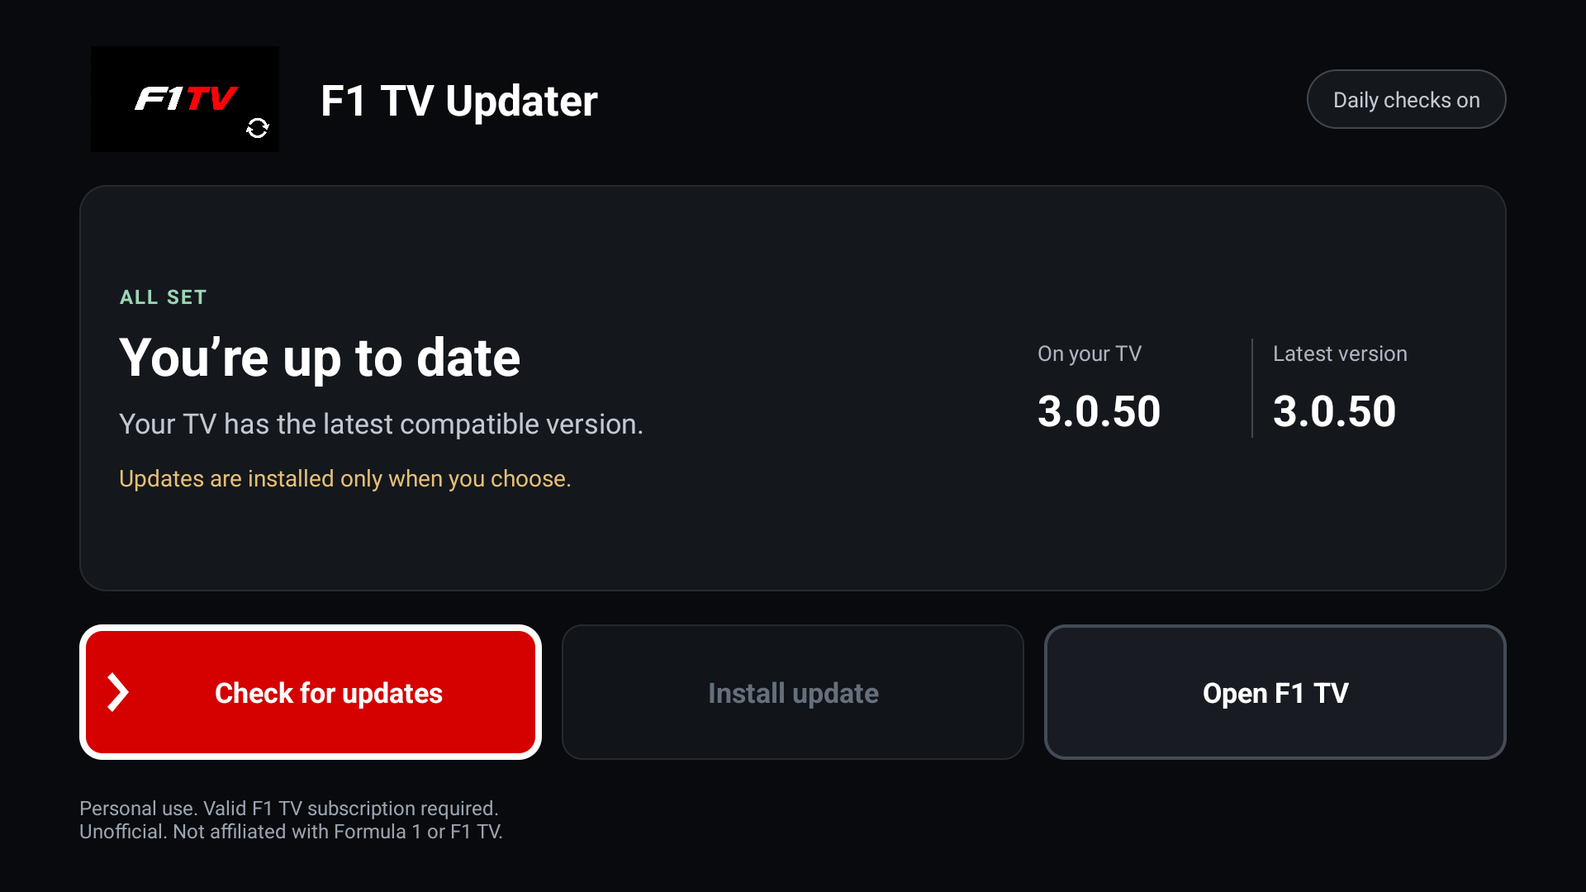
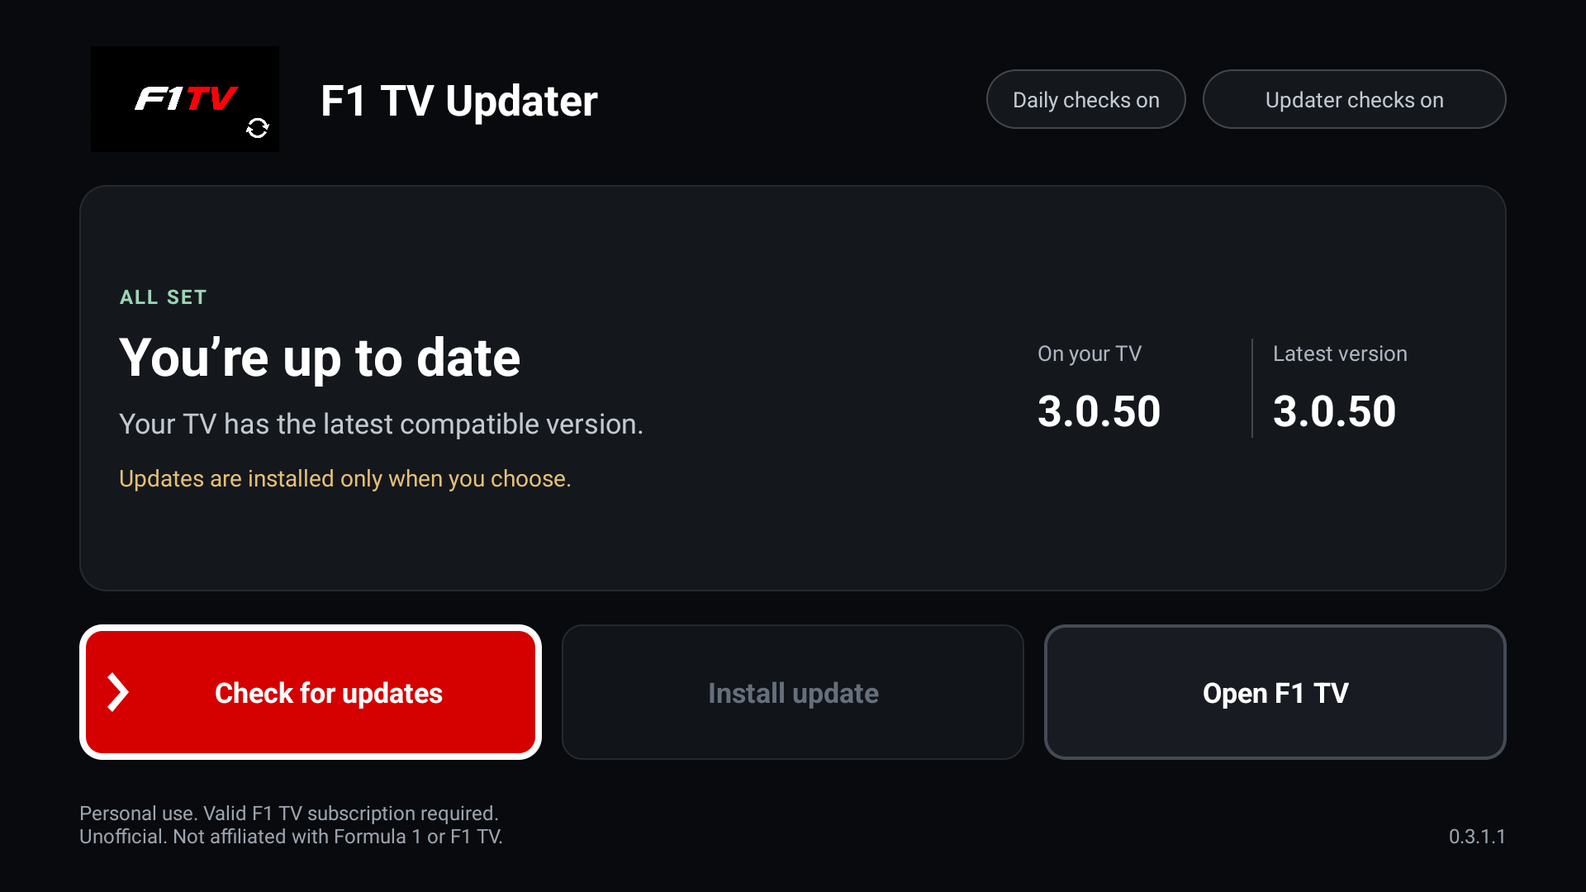
Show updater version and add automatic updater-check control (0.3.1.1)

diff --git a/app/src/main/java/com/independent/f1tvupdater/MainActivity.java b/app/src/main/java/com/independent/f1tvupdater/MainActivity.java
@@ -34,6 +34,7 @@ public final class MainActivity extends Activity {
     private Button install;
     private Button check;
     private Button open;
+    private Button updaterChecks;
     private boolean busy;
     private boolean setupPromptOpen;
     private boolean selfPromptOpen;
@@ -69,6 +70,22 @@ public final class MainActivity extends Activity {
         daily.setPadding(dp(16), dp(9), dp(16), dp(9));
         daily.setBackground(panel(0xff14181d, 24, 0xff41474f));
         header.addView(daily);
+        updaterChecks = button("", v -> {
+            boolean enabled = !SelfUpdater.automaticChecksEnabled(this);
+            SelfUpdater.setAutomaticChecksEnabled(this, enabled);
+            render();
+            Toast.makeText(this, enabled ? "Automatic updater checks on."
+                    : "Automatic updater checks off. Manual checks still work.", Toast.LENGTH_LONG).show();
+        });
+        updaterChecks.setTextSize(13);
+        updaterChecks.setTypeface(Typeface.DEFAULT, Typeface.NORMAL);
+        updaterChecks.setMaxLines(1);
+        updaterChecks.setPadding(dp(12), dp(6), dp(12), dp(6));
+        updaterChecks.setBackgroundResource(R.drawable.tv_pill);
+        updaterChecks.setTextColor(getColorStateList(R.color.tv_pill_text));
+        LinearLayout.LayoutParams updaterChecksSize = new LinearLayout.LayoutParams(dp(184), dp(36));
+        updaterChecksSize.leftMargin = dp(10);
+        header.addView(updaterChecks, updaterChecksSize);
         LinearLayout.LayoutParams headerSize = new LinearLayout.LayoutParams(-1, dp(compact ? 56 : 64));
         headerSize.bottomMargin = dp(compact ? 14 : 20);
         root.addView(header, headerSize);
@@ -135,15 +152,24 @@ public final class MainActivity extends Activity {
         check.setNextFocusLeftId(check.getId());
         open.setNextFocusRightId(open.getId());
         for (Button action : new Button[] {check, install, open}) {
-            action.setNextFocusUpId(action.getId());
             action.setNextFocusDownId(action.getId());
         }
+        updaterChecks.setNextFocusLeftId(updaterChecks.getId());
+        updaterChecks.setNextFocusRightId(updaterChecks.getId());
+        updaterChecks.setNextFocusUpId(updaterChecks.getId());
+        updaterChecks.setNextFocusDownId(check.getId());
 
         LinearLayout footer = new LinearLayout(this);
-        footer.setGravity(Gravity.CENTER_VERTICAL);
+        footer.setBaselineAligned(false);
+        footer.setGravity(Gravity.BOTTOM);
         TextView disclaimer = text(getString(R.string.disclaimer), 12, 0xff9ba4b0);
         disclaimer.setMaxLines(2);
-        footer.addView(disclaimer, new LinearLayout.LayoutParams(-1, -2));
+        footer.addView(disclaimer, new LinearLayout.LayoutParams(0, -2, 1));
+        TextView updaterVersion = text(SelfUpdater.installedName(this), 12, 0xff9ba4b0);
+        updaterVersion.setGravity(Gravity.END);
+        LinearLayout.LayoutParams updaterVersionSize = new LinearLayout.LayoutParams(-2, -2);
+        updaterVersionSize.leftMargin = dp(24);
+        footer.addView(updaterVersion, updaterVersionSize);
         LinearLayout.LayoutParams footerSize = new LinearLayout.LayoutParams(-1, dp(36));
         footerSize.topMargin = dp(compact ? 12 : 18);
         root.addView(footer, footerSize);
@@ -156,7 +182,7 @@ public final class MainActivity extends Activity {
         if (Updater.installedVersion(this) >= 0 &&
                 !Updater.prefs(this).getBoolean("first_check_started", false)) {
             Updater.prefs(this).edit().putBoolean("first_check_started", true).apply();
-            checkNow();
+            runCheck(false, false);
         }
     }
 
@@ -300,6 +326,16 @@ public final class MainActivity extends Activity {
                 !state.equals("Waiting for Android installation confirmation") &&
                 !state.equals("Awaiting installation confirmation"));
         open.setEnabled(Updater.installedVersion(this) >= 0);
+        boolean publicEdition = SelfUpdater.supported(this);
+        boolean automaticChecks = SelfUpdater.automaticChecksEnabled(this);
+        updaterChecks.setText(publicEdition ? "Updater checks " + (automaticChecks ? "on" : "off")
+                : "Updater: local");
+        updaterChecks.setContentDescription(publicEdition
+                ? "Automatic updater checks " + (automaticChecks ? "on. Select to turn off." : "off. Select to turn on.")
+                : "Personal updater updates are installed locally.");
+        updaterChecks.setEnabled(publicEdition && !busy && !selfPending);
+        for (Button action : new Button[] {check, install, open})
+            action.setNextFocusUpId(updaterChecks.isEnabled() ? updaterChecks.getId() : action.getId());
         check.setNextFocusRightId(install.isEnabled() ? install.getId()
                 : open.isEnabled() ? open.getId() : check.getId());
         install.setNextFocusRightId(open.isEnabled() ? open.getId() : install.getId());
@@ -307,7 +343,7 @@ public final class MainActivity extends Activity {
     }
     private void checkNow() {
         if (busy) return;
-        runCheck(false);
+        runCheck(false, true);
     }
 
     private void offerSetup(boolean requested) {
@@ -322,7 +358,7 @@ public final class MainActivity extends Activity {
                 .setTitle(R.string.setup_title)
                 .setMessage(R.string.setup_message)
                 .setNegativeButton("Not now", null)
-                .setPositiveButton("Download", (dialog, which) -> runCheck(true))
+                .setPositiveButton("Download", (dialog, which) -> runCheck(true, false))
                 .setOnDismissListener(dialog -> { setupPromptOpen = false; render(); })
                 .create();
         setup.setOnShowListener(dialog -> {
@@ -337,14 +373,14 @@ public final class MainActivity extends Activity {
         setup.show();
     }
 
-    private void runCheck(boolean initialSetup) {
+    private void runCheck(boolean initialSetup, boolean requested) {
         if (busy) return;
         busy = true;
         render();
         show("Checking for updates…");
         io.execute(() -> {
             boolean selfCheckFailed = false;
-            try { SelfUpdater.check(getApplicationContext(), true); }
+            try { SelfUpdater.check(getApplicationContext(), requested); }
             catch (Exception e) { SelfUpdater.recordError(getApplicationContext(), e); selfCheckFailed = true; }
             final boolean updaterCheckFailed = selfCheckFailed;
             try {
@@ -358,9 +394,9 @@ public final class MainActivity extends Activity {
                     busy = false;
                     if (!isDestroyed()) {
                         render();
-                        boolean offered = offerSelfUpdate(true);
-                        if (!offered && !initialSetup) offerSetup(true);
-                        if (visible && updaterCheckFailed && !offered)
+                        boolean offered = offerSelfUpdate(requested);
+                        if (!offered && !initialSetup) offerSetup(requested);
+                        if (requested && visible && updaterCheckFailed && !offered)
                             Toast.makeText(this, "The updater check couldn’t finish. Try again later.", Toast.LENGTH_LONG).show();
                     }
                 });

diff --git a/app/src/main/java/com/independent/f1tvupdater/SelfUpdater.java b/app/src/main/java/com/independent/f1tvupdater/SelfUpdater.java
@@ -29,6 +29,12 @@ public final class SelfUpdater {
         return c.getApplicationContext().getSharedPreferences("self_update_state_v1", Context.MODE_PRIVATE);
     }
     static boolean supported(Context c) { return SelfUpdatePolicy.COMMUNITY.equals(c.getPackageName()); }
+    static boolean automaticChecksEnabled(Context c) {
+        return prefs(c).getBoolean("automatic_checks", true);
+    }
+    static void setAutomaticChecksEnabled(Context c, boolean enabled) {
+        prefs(c).edit().putBoolean("automatic_checks", enabled).remove("last_attempt").apply();
+    }
     private static PackageInfo own(Context c) throws Exception {
         return c.getPackageManager().getPackageInfo(c.getPackageName(), Updater.signatureFlags());
     }
@@ -45,8 +51,8 @@ public final class SelfUpdater {
     static boolean pending(Context c) { return prefs(c).getInt("session_id", -1) >= 0; }
     static void dismiss(Context c) { prefs(c).edit().putString("dismissed_key", offerKey(c)).apply(); }
     static boolean shouldOffer(Context c, boolean requested) {
-        return available(c) && !pending(c) && (requested ||
-                !offerKey(c).equals(prefs(c).getString("dismissed_key", "")));
+        return available(c) && !pending(c) && (requested || (automaticChecksEnabled(c) &&
+                !offerKey(c).equals(prefs(c).getString("dismissed_key", ""))));
     }
     static String state(Context c) { return prefs(c).getString("state", "Preparing updater update"); }
     static void setState(Context c, String state) { prefs(c).edit().putString("state", state).apply(); }
@@ -104,6 +110,7 @@ public final class SelfUpdater {
         if (!supported(c)) return; // Personal builds remain local, with no published matching APK.
         synchronized (LOCK) {
             reconcile(c);
+            if (!requested && !automaticChecksEnabled(c)) return;
             if (pending(c)) return;
             long now = System.currentTimeMillis(), last = prefs(c).getLong("last_attempt", 0);
             if (!requested && now >= last && now - last < 5 * 60_000L) return;

diff --git a/app/src/test/java/com/independent/f1tvupdater/SelfUpdatePolicyTest.java b/app/src/test/java/com/independent/f1tvupdater/SelfUpdatePolicyTest.java
@@ -12,12 +12,16 @@ public class SelfUpdatePolicyTest {
     @Test public void onlyThePublicEditionHasAPublishedUpdateAsset() {
         assertEquals(NAME, SelfUpdatePolicy.assetName(PACKAGE, "v0.3.1"));
         assertEquals(NAME, SelfUpdatePolicy.assetName(PACKAGE, "0.3.1"));
+        assertEquals("f1tv-patch-updater-0.3.1.1.apk", SelfUpdatePolicy.assetName(PACKAGE, "v0.3.1.1"));
         assertNull(SelfUpdatePolicy.assetName("com.independent.f1tvupdater", "v0.3.1"));
         assertNull(SelfUpdatePolicy.assetName(PACKAGE, "v0.3.1-beta"));
     }
     @Test public void comparesVersionsNumericallyAndSkipsCurrentOrOlderReleases() {
         assertTrue(SelfUpdatePolicy.newerRelease("0.3.9", "v0.3.10"));
         assertTrue(SelfUpdatePolicy.newerRelease("0.3.10", "v0.4.0"));
+        assertTrue(SelfUpdatePolicy.newerRelease("0.3.1", "v0.3.1.1"));
+        assertTrue(SelfUpdatePolicy.newerRelease("0.3.1.1", "v0.3.1.2"));
+        assertFalse(SelfUpdatePolicy.newerRelease("0.3.1.1", "v0.3.1"));
         assertFalse(SelfUpdatePolicy.newerRelease("0.3.1", "v0.3.1"));
         assertFalse(SelfUpdatePolicy.newerRelease("0.3.1", "v0.3.0"));
         assertFalse(SelfUpdatePolicy.newerRelease("0.3", "v0.3.0"));

diff --git a/app/src/main/java/com/independent/f1tvupdater/UpdateJobService.java b/app/src/main/java/com/independent/f1tvupdater/UpdateJobService.java
@@ -7,7 +7,7 @@ public final class UpdateJobService extends JobService {
     private Thread thread;
     @Override public boolean onStartJob(JobParameters params) {
         thread = new Thread(() -> {
-            try { SelfUpdater.check(getApplicationContext(), true); }
+            try { SelfUpdater.check(getApplicationContext(), false); }
             catch (Exception e) { SelfUpdater.recordError(getApplicationContext(), e); }
             try { Updater.checkAndDownload(getApplicationContext(), message -> {}); }
             catch (Exception e) { Updater.recordError(getApplicationContext(), e); }

diff --git a/AGENTS.md b/AGENTS.md
@@ -1,13 +1,13 @@
 # F1TV Patch Updater
 
-- `SelfUpdater` owns public-edition self-updates with separate preferences/files/session callbacks. `SelfUpdatePolicy` is host-testable. Check metadata on opening/manual/daily jobs; only Update now downloads and installs. Require the exact own package, matching installed signing certificate, higher code, matching release name and GitHub SHA-256. Never uninstall the updater or switch editions. Recover cleanup through MY_PACKAGE_REPLACED and startup. Personal builds remain local with no public self-update feed.
+- `SelfUpdater` owns public-edition self-updates with separate preferences/files/session callbacks. `SelfUpdatePolicy` is host-testable. Check metadata on opening/manual/daily jobs; only Update now downloads and installs. Require the exact own package, matching installed signing certificate, higher code, matching release name and GitHub SHA-256. Never uninstall the updater or switch editions. Recover cleanup through MY_PACKAGE_REPLACED and startup. The persisted automatic_checks setting gates startup/daily checks and automatic offers; explicit manual checks bypass it. Personal builds remain local with no public self-update feed.
 - Native Android TV app in `app/src/main/java/com/independent/f1tvupdater`; no third-party runtime dependencies.
 - `Updater` owns releases, bounded APKM extraction, split selection, pinned candidate metadata and PackageInstaller sessions. `UpdatePolicy` and `ReleaseCheckPolicy` contain host-testable decisions; `UpdateFiles` owns narrowly scoped staging cleanup. `MainActivity` owns confirmation and Android uninstall requests.
 - Never uninstall F1 TV from a background job. Same-key updates preserve data; unrelated keys require the trusted upstream SHA-256, revalidated candidate, explicit data-loss/sign-in warning and Android confirmation. Replacement recovery requires a pinned, user-initiated replacement.
 - Check full readable version/build metadata before downloading; uncertain metadata falls back to APK verification. Cache non-newer results by release asset and installed-package identity; invalidate replaced assets. Keep numeric APK version checks authoritative.
 - Run resume/startup cleanup off the UI thread under the same operation lock. Delete only updater-owned staging/extraction names, never follow symlinks, preserve valid pending/recovery candidates and active/sealed installer sessions, and make successful-install recovery idempotent.
 - Display readable versions; compare numeric version codes. Keep candidates through cancellation/failure. Never permit downgrades. First-time downloads require the activity's explicit Download action and a GitHub SHA-256; pin first-install approval to that verified candidate. Background checks cannot download for an empty TV. Revalidate saved candidates before installation.
-- Keep one TV screen, three horizontal actions and the red/white/chevron focus selector. Skip disabled actions; up/down stays in the row. Offer setup automatically once when F1 TV and a saved candidate are absent; Check for updates can offer it again. Keep the personal-use/subscription and non-affiliation footer visible and credit Alexvbp in public documentation.
+- Keep one TV screen, three horizontal actions and the red/white/chevron focus selector. Skip disabled actions; Up reaches the public updater-check pill, Down returns to the main actions, and the personal local-only pill is not focusable. Offer setup automatically once when F1 TV and a saved candidate are absent; Check for updates can offer it again. Show the installed updater version at bottom right in the disclaimer style. Keep the personal-use/subscription and non-affiliation footer visible and credit Alexvbp in public documentation.
 - `community` has application ID suffix `.community` and uses the main branding resource. `personal` preserves the original app identity and uses an ignored local overlay at `app/src/personal/res/drawable-nodpi/tv_banner.png`. Do not publish that private overlay or the personal APK.
 - JDK 17, Gradle 8.9, Android API 35. CI: `gradle --no-daemon assembleCommunityDebug testCommunityDebugUnitTest lintCommunityDebug`. Personal local check: `assemblePersonalDebug lintPersonalDebug`.
 - Public release: `assembleCommunityRelease lintCommunityRelease`, with `UPDATER_KEYSTORE_FILE`, `UPDATER_KEYSTORE_PASSWORD`, `UPDATER_KEY_ALIAS`, `UPDATER_KEY_PASSWORD` supplied privately. Signing material is retained locally, not in Git. Never fall back to a temporary debug key for a public release. CI checks do not publish releases.

diff --git a/README.md b/README.md
@@ -39,16 +39,16 @@ No more moving every new update from your computer to your TV. The updater watch
 
 The updater installs the upstream bundle directly. **No AntiSplit-M or separate split installer is needed.** After setup, future patch checks and downloads happen on the TV; you choose when to install.
 
-**Already using public 0.3.0 or earlier?** Install 0.3.1 once using the guide. After that, newer public updater releases are detected on the TV: choose **Update now** and approve Android’s prompt. **Older personal/prototype builds** have a separate identity and install alongside the public edition; private personal builds continue to be updated locally.
+**Already using public 0.3.0 or earlier?** Install the latest release once using the guide. After that, newer public updater releases are detected on the TV: choose **Update now** and approve Android’s prompt. **Older personal/prototype builds** have a separate identity and install alongside the public edition; private personal builds continue to be updated locally.
 
 ## Screenshots
 
 Actual captures of the public edition running on Android TV.
 
-| Ready at a glance | Easy to navigate |
+| Ready at a glance | Updater checks you control |
 | :---: | :---: |
-| ![Readable installed and latest versions](docs/screenshots/overview.png) | ![High-contrast remote selection](docs/screenshots/remote-focus.png) |
-| Your installed version and the latest release, together. | Clear focus, large controls, and no scrolling. |
+| ![Readable installed and latest versions](docs/screenshots/overview.png) | ![Updater automatic checks turned off](docs/screenshots/updater-checks.png) |
+| Your installed version and the latest release, together. | Press Up to turn automatic updater checks on or off. |
 
 ![Optional first-time setup](docs/screenshots/setup.png)
 
@@ -57,6 +57,10 @@ Actual captures of the public edition running on Android TV.
 ![Updater self-update prompt](docs/screenshots/self-update.png)
 
 <sub>Updater self-update prompt captured on the Sony TV with a temporary test build. Public users need 0.3.1 or newer before later updater releases can be detected automatically.</sub>
+
+<sub>The overview and updater-check captures show 0.3.1.1 on the physical TV using an isolated updater test package, with the real F1 TV installation intact.</sub>
+
+The updater version appears at the bottom right. From **0.3.1.1**, press **Up** to reach **Updater checks on/off** beside **Daily checks on**. Switch it off to stop automatic updater checks and popups; manual **Check for updates** still works, and daily F1 TV patch checks continue.
 
 ## A few useful things to know
 

diff --git a/docs/how-it-works.md b/docs/how-it-works.md
@@ -13,6 +13,8 @@
 
 The public edition checks `Lzchyi/f1tv-patch-updater/releases/latest` on opening, manual checks and the daily job. Version metadata is checked before downloading. A newer stable release is offered through a separate popup, keeping the three F1 TV actions unchanged. Later dismisses automatic prompting for that exact asset; a manual check can offer it again.
 
+From 0.3.1.1, the persisted **Updater checks on/off** setting gates automatic startup/daily metadata requests and automatic offers, including cached offers. Manual checks bypass that setting. F1 TV patch scheduling is independent. The first automatic F1 TV check also respects this setting for its accompanying updater check. Personal builds show **Updater: local**.
+
 Only Update now starts the updater APK download and installation. The expected public APK filename and repository URL, a bounded size, GitHub SHA-256, exact application ID, higher Android version code, matching release version and the currently installed signing certificate must all match. A self-update never switches editions, permits a downgrade or removes the updater.
 
 Self-update preferences, APK files and callback action are separate from the F1 TV update path. Android must approve installation. Verified files survive cancellation for retry; partial or completed files are removed. `MY_PACKAGE_REPLACED` and startup reconciliation recover cleanup when replacing our own process loses the installer callback. Personal builds remain private/local and have no public self-update feed.

diff --git a/docs/faq.md b/docs/faq.md
@@ -50,6 +50,12 @@ An available patch is not silently installed: Android installation confirmation 
 
 Users on **public v0.3.0 or earlier** need to install v0.3.1 once before this feature is available. The private personal edition keeps its original branding and local distribution; there is no public matching personal APK for it to fetch.
 
+### Can I turn automatic updater updates off?
+
+From **v0.3.1.1**, press **Up** from the main buttons and select **Updater checks on** at the top right. It changes to **Updater checks off** and remembers your choice. This stops automatic updater checks on opening and in the daily job, including automatic update popups. **Check for updates** still checks manually. F1 TV patch checks and downloads keep their existing daily schedule.
+
+The updater never installs itself automatically: **Update now** and Android confirmation are always required. The personal edition shows **Updater: local**, because its APK is not published. The installed updater version is shown at the bottom right.
+
 ### What if updating the updater is interrupted or cancelled?
 
 A verified updater APK is kept for retry. Use **Check for updates**, choose **Update now** again, and approve Android's prompt. The app revalidates the file and signing identity before retrying. Completed and partial updater downloads are cleaned up separately from F1 TV patch files, including recovery after the updater replaces its own process.

diff --git a/docs/validation.md b/docs/validation.md
@@ -18,6 +18,12 @@ Tested on **25 October 2026**:
 
 This is a verified environment, rather than a promise that every Android TV device behaves identically. Playback is owner-reported; these updater tests do not measure the decoder's 4K resolution, HDR output or colour accuracy.
 
+## 0.3.1.1 controls and version display
+
+An isolated updater package on the same TV verified that **Updater checks off** persists across restart, skips updater metadata requests in both startup paths and the forced daily job, and suppresses a cached automatic offer. **Check for updates** still fetched metadata and offered the newer release while off; re-enabling restored automatic detection. Daily F1 TV checks remained active, and no updater APK was downloaded by these checks.
+
+D-pad Up reaches the new pill and Down returns to the main actions. The installed **0.3.1.1** version is visible at the bottom right, with the disclaimer's font, size and colour. The screen remains a single page. The real F1 TV and personal updater installations were preserved. The numeric-version host checks also cover the four-part release name.
+
 ## 0.3.1 self-update validation
 
 The host suite has **33 tests**, covering the original F1 TV policies plus public-release version comparison, exact asset selection, repository URL/size/SHA-256 checks, rejection of edition changes, changed signing keys and non-newer APKs.

diff --git a/docs/install.md b/docs/install.md
@@ -118,6 +118,8 @@ Open the updater once. It checks the installed F1 TV version and the latest patc
 
 From **public v0.3.1**, a newer updater release also appears in an **Update the updater?** popup. Choose **Update now**, allow installation if asked and approve Android’s update prompt. **Later** leaves it alone; **Check for updates** can offer it again. No computer or transfer app is needed for those later public updater upgrades. Users on public 0.3.0 or earlier need this one-time manual upgrade first. Private personal builds continue to be installed locally.
 
+From **v0.3.1.1**, use **Up** to select **Updater checks on/off** beside **Daily checks on**. Off stops automatic updater checks and popups while keeping manual checks and daily F1 TV patch checks available. The updater version is shown at the bottom right.
+
 Installing through USB or a transfer app leaves your manually copied installer in its original folder. You may delete that copy after installing. The updater cleans up the patch files it downloads itself after successful installation.
 
 ## Stuck?

diff --git a/CHANGELOG.md b/CHANGELOG.md
@@ -1,5 +1,12 @@
 # Changelog
 
+## 0.3.1.1 — 2026-10-25
+
+- Show the installed updater version at the bottom right, matching the disclaimer font, size and colour.
+- Add a remote-accessible **Updater checks on/off** pill beside **Daily checks on** in the public edition. The setting persists across restarts and disables automatic updater metadata checks and popups. Manual updater checks and daily F1 TV patch checks remain available.
+- Keep the personal edition local with its original logo and an **Updater: local** indicator.
+- Use Android version code 9 so public 0.3.1 can update to this release directly on the TV.
+
 ## 0.3.1 — 2026-10-25
 
 ### Added
